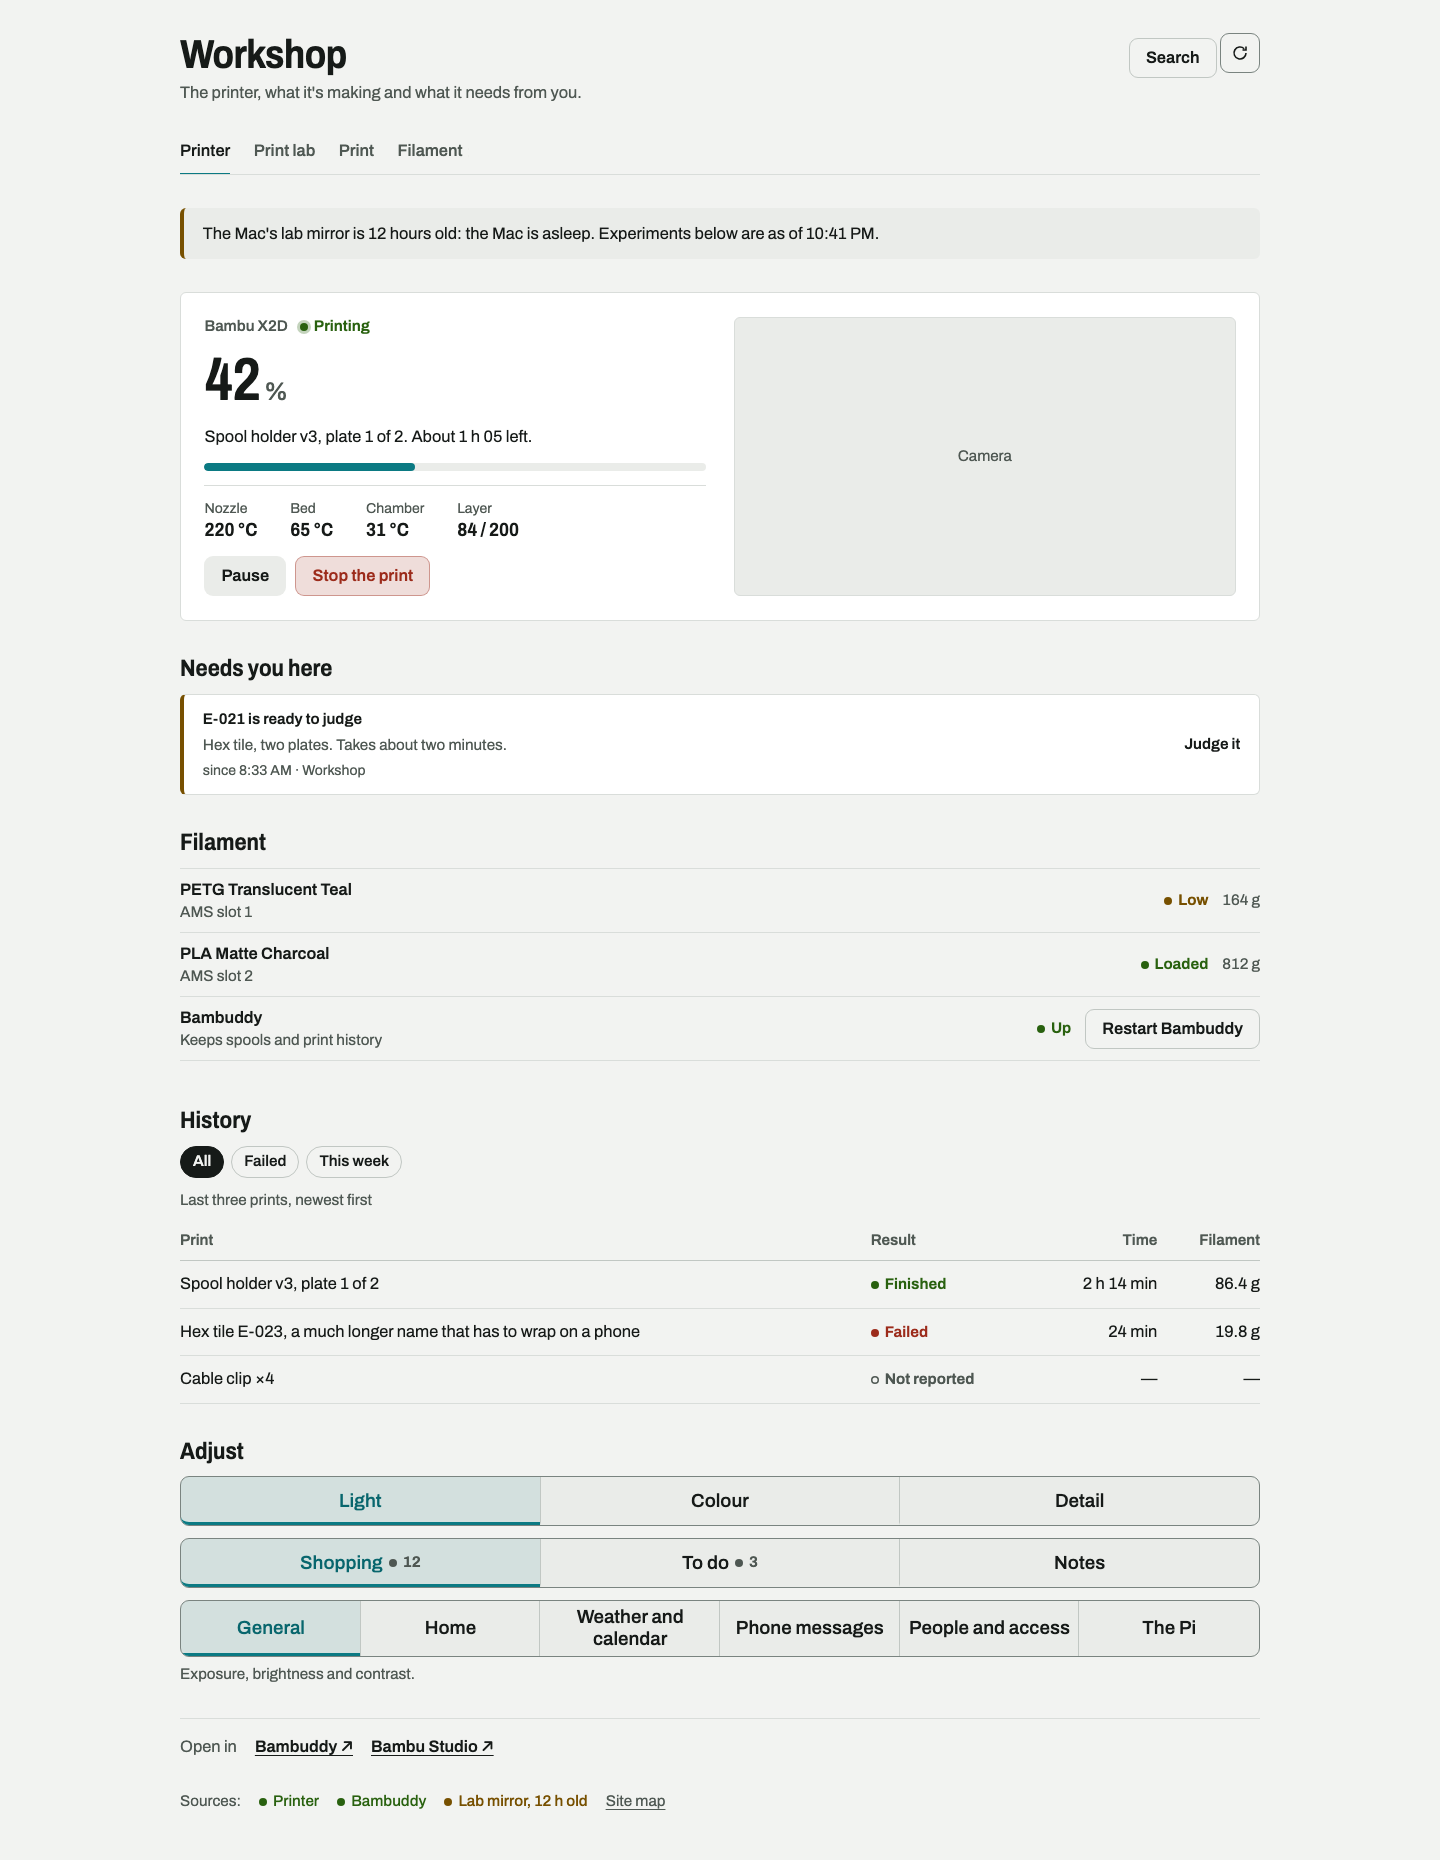
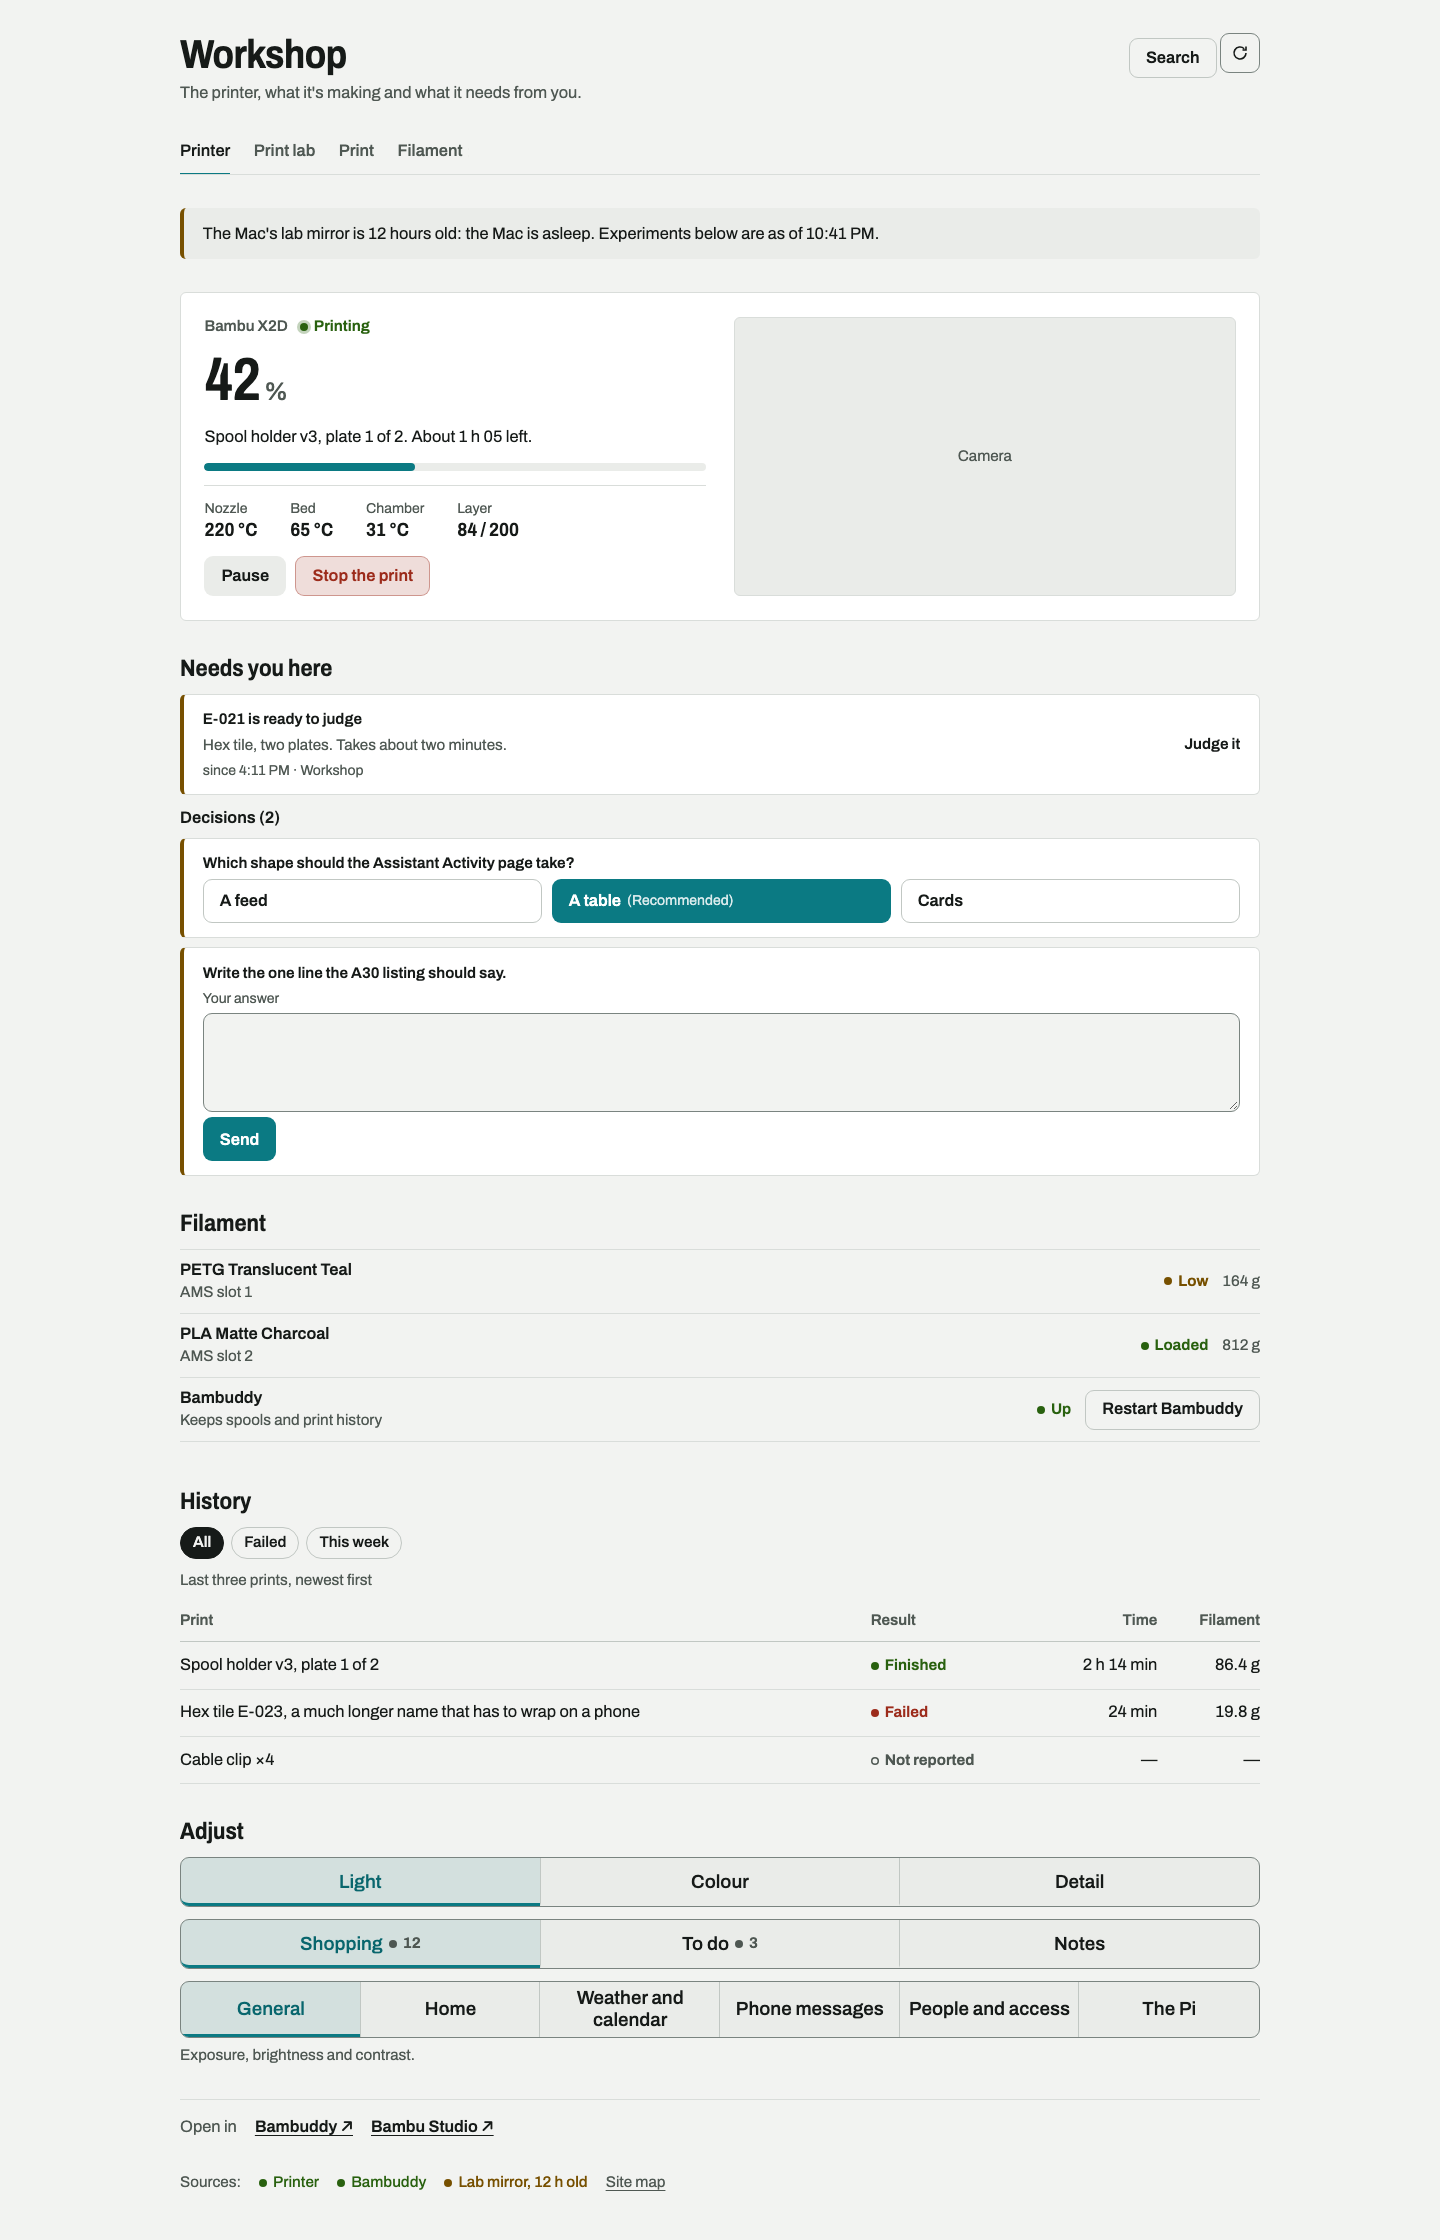
Demo page: Decisions group; retake page screenshots; DESIGN.md component row (A33 P1)

diff --git a/demo/page.html b/demo/page.html
@@ -45,6 +45,7 @@
   <section class="ui-section" aria-labelledby="needs-h">
     <h2 id="needs-h">Needs you here</h2>
     <div id="needs"></div>
+    <div id="decisions"></div>
   </section>
   <section class="ui-section" aria-labelledby="fil-h">
     <h2 id="fil-h">Filament</h2>
@@ -82,6 +83,10 @@
   document.getElementById('needs').append(ApplianceNeeds.renderList([
     { id: 'judge', source: 'Print lab', area: 'Workshop', tone: 'attention', title: 'E-021 is ready to judge', detail: 'Hex tile, two plates. Takes about two minutes.', link: '#hist-h', action: { key: 'judge_it', link: '#hist-h' }, as_of: new Date(Date.now() - 36e5).toISOString() },
   ], { here: location.href, self: 'Pi Hub' }));
+  document.getElementById('decisions').append(ApplianceNeeds.renderDecisions([
+    { id: 'a27-shape', kind: 'choice', question: 'Which shape should the Assistant Activity page take?', options: ['A feed', 'A table', 'Cards'], recommended: 'A table', link: '#hist-h' },
+    { id: 'a30-line', kind: 'text', question: 'Write the one line the A30 listing should say.', options: [], link: '' },
+  ], { here: location.href, onAnswer: (id, answer) => new Promise(r => setTimeout(() => r(answer), 600)) }));
   const done = document.getElementById('done');
   for (const b of document.querySelectorAll('[data-what]')) {
     b.addEventListener('click', async () => {

diff --git a/DESIGN.md b/DESIGN.md
@@ -249,6 +249,7 @@ is added to this kit, never to one app.
 | Comparing records | `ui-table`, `ui-table__num`, `ui-table--stack` (2.7) |
 | An icon-only control | `ui-btn--icon` (2.7) with `aria-label` |
 | What needs the owner | `ApplianceNeeds.renderList` (`ui-needs`), the only Needs-you list |
+| A question only the owner can answer | `ApplianceNeeds.renderDecisions` (`ui-decisions`, 2.27; Pi Hub A33): a "Decisions (n)" group after the condition items. Choice rows have two to four buttons with the recommended one marked in words; text rows have a box and one Send. A failed write keeps the row and says "Not recorded. Try again." An unreadable list is `state: "error"`, never an empty group |
 | Status | `ui-chip--ok/warn/bad/unknown`, with `--live` for something running now |
 | Progress | `ui-meter`, only with a real fraction |
 | Loading | `ui-skeleton` in the shape of what is coming |
